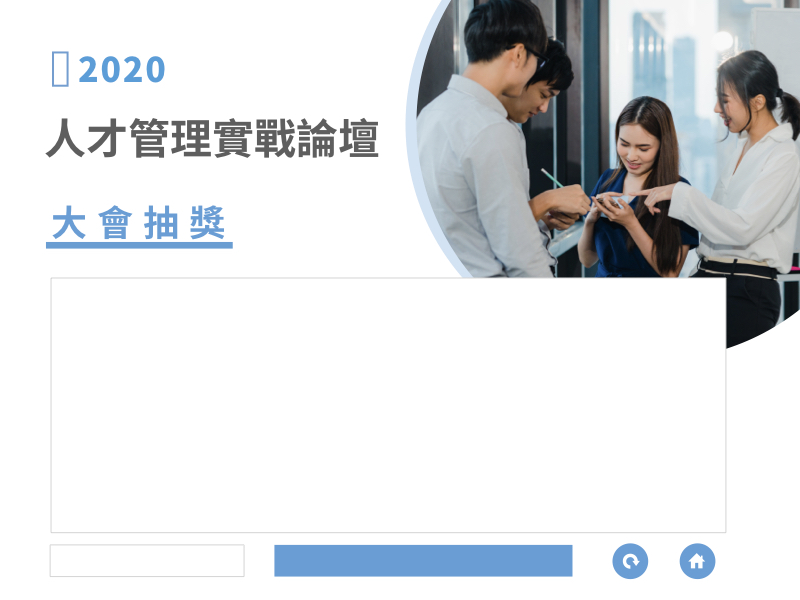
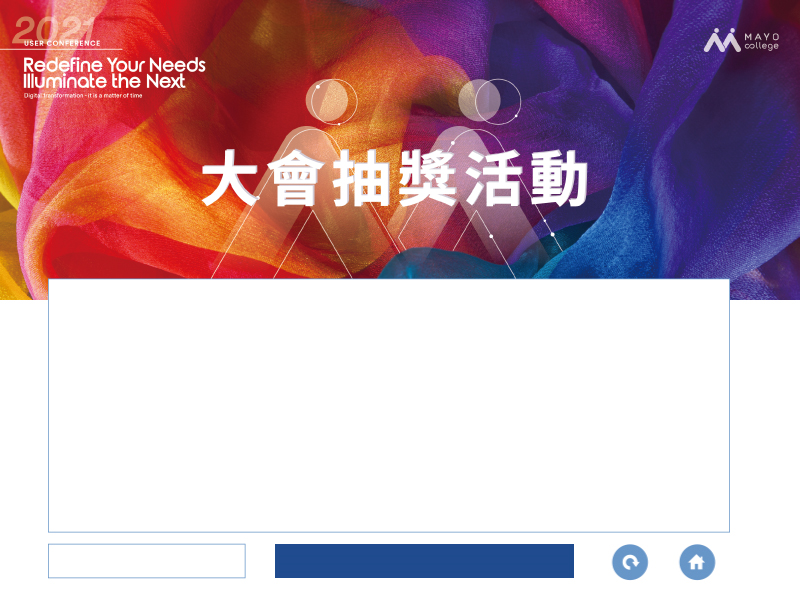
Update bg pic for new event
1. Update title.
2. Update bg.png

diff --git a/index.html b/index.html
@@ -2,7 +2,7 @@
 <html>
 <head>
     <meta charset="UTF-8">
-    <title>2020 人才管理實戰論壇 大會抽獎</title>
+    <title>MAYO 2021用戶大會</title>
     <link rel="stylesheet" href="css/style.css"/>
     <link rel="stylesheet" href="css/animate.css"/>
     <script src="js/lib/jquery-1.12.4.min.js"></script>
@@ -14,6 +14,12 @@
 </head>
 <body>
 <div>
+    <script type="text/javascript">
+        $('#search_input')
+        .keydown(function(event){
+        alert(event.keyCode);
+        })
+    </script>
     <header>
         <div></div>
     </header>
